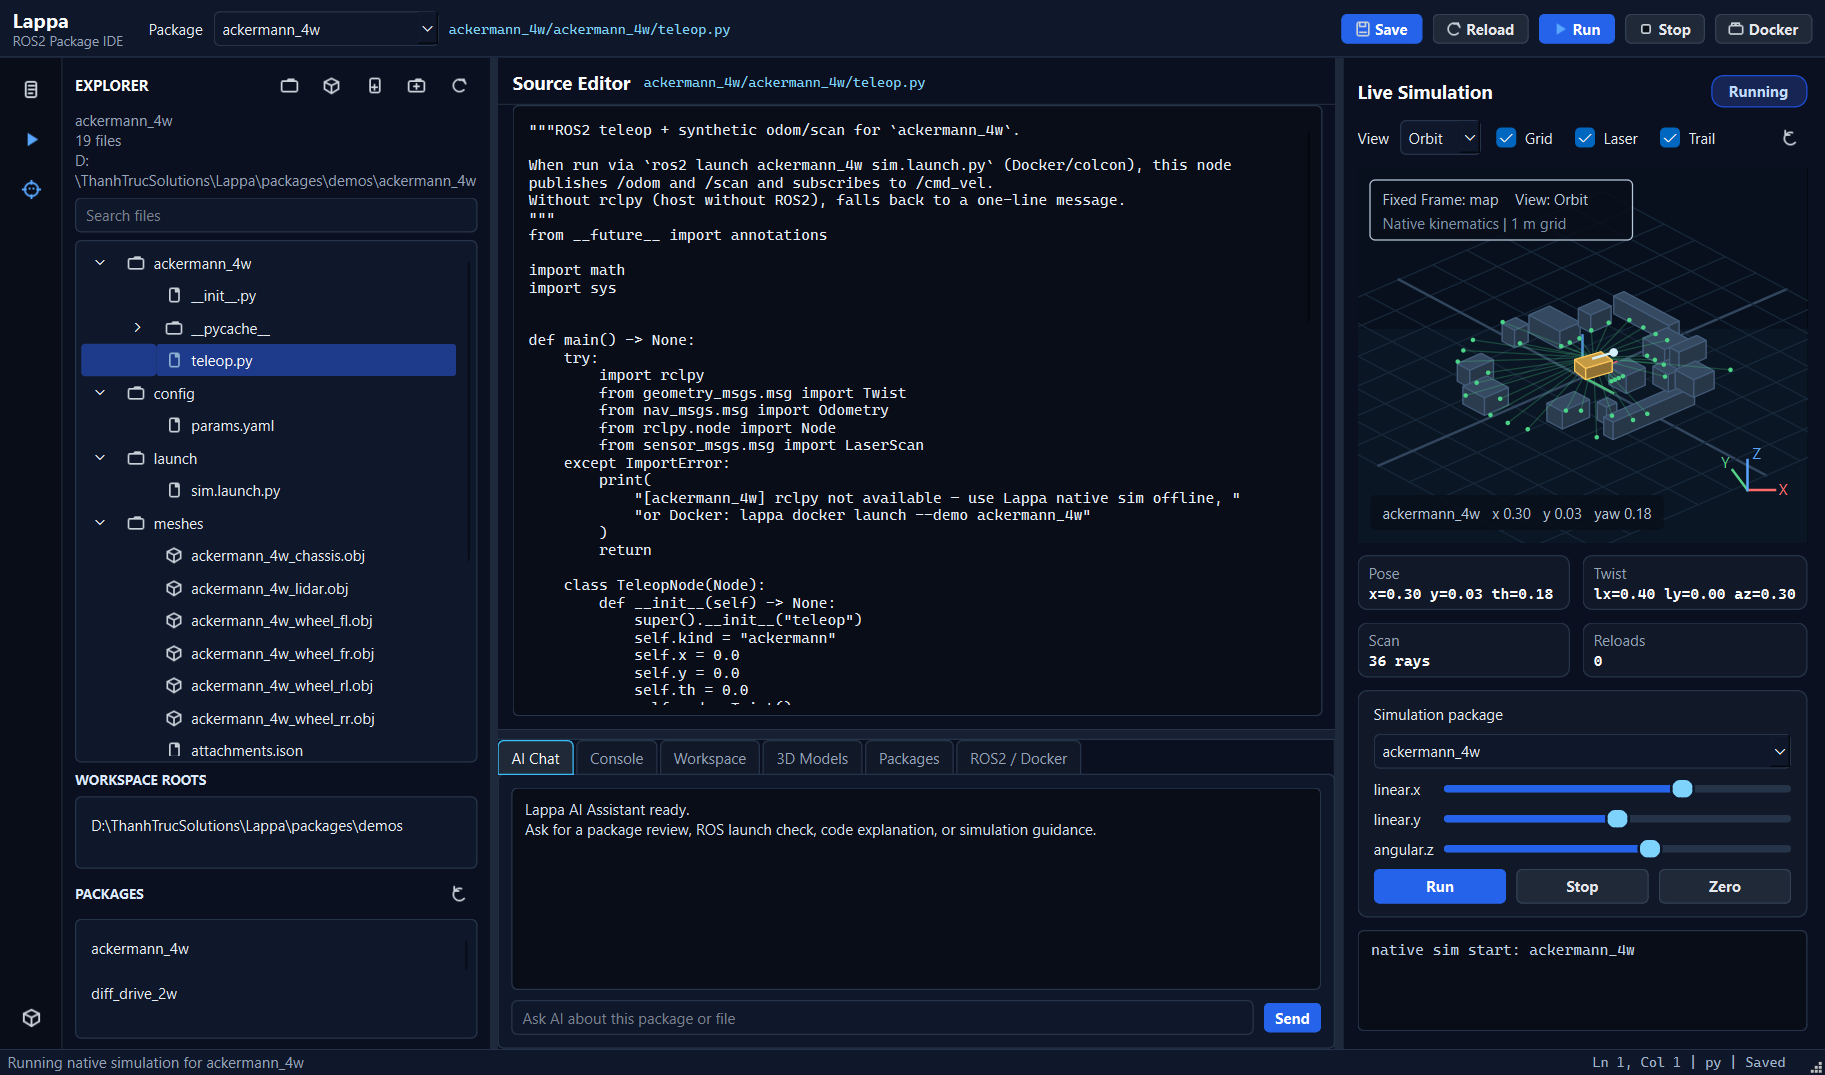
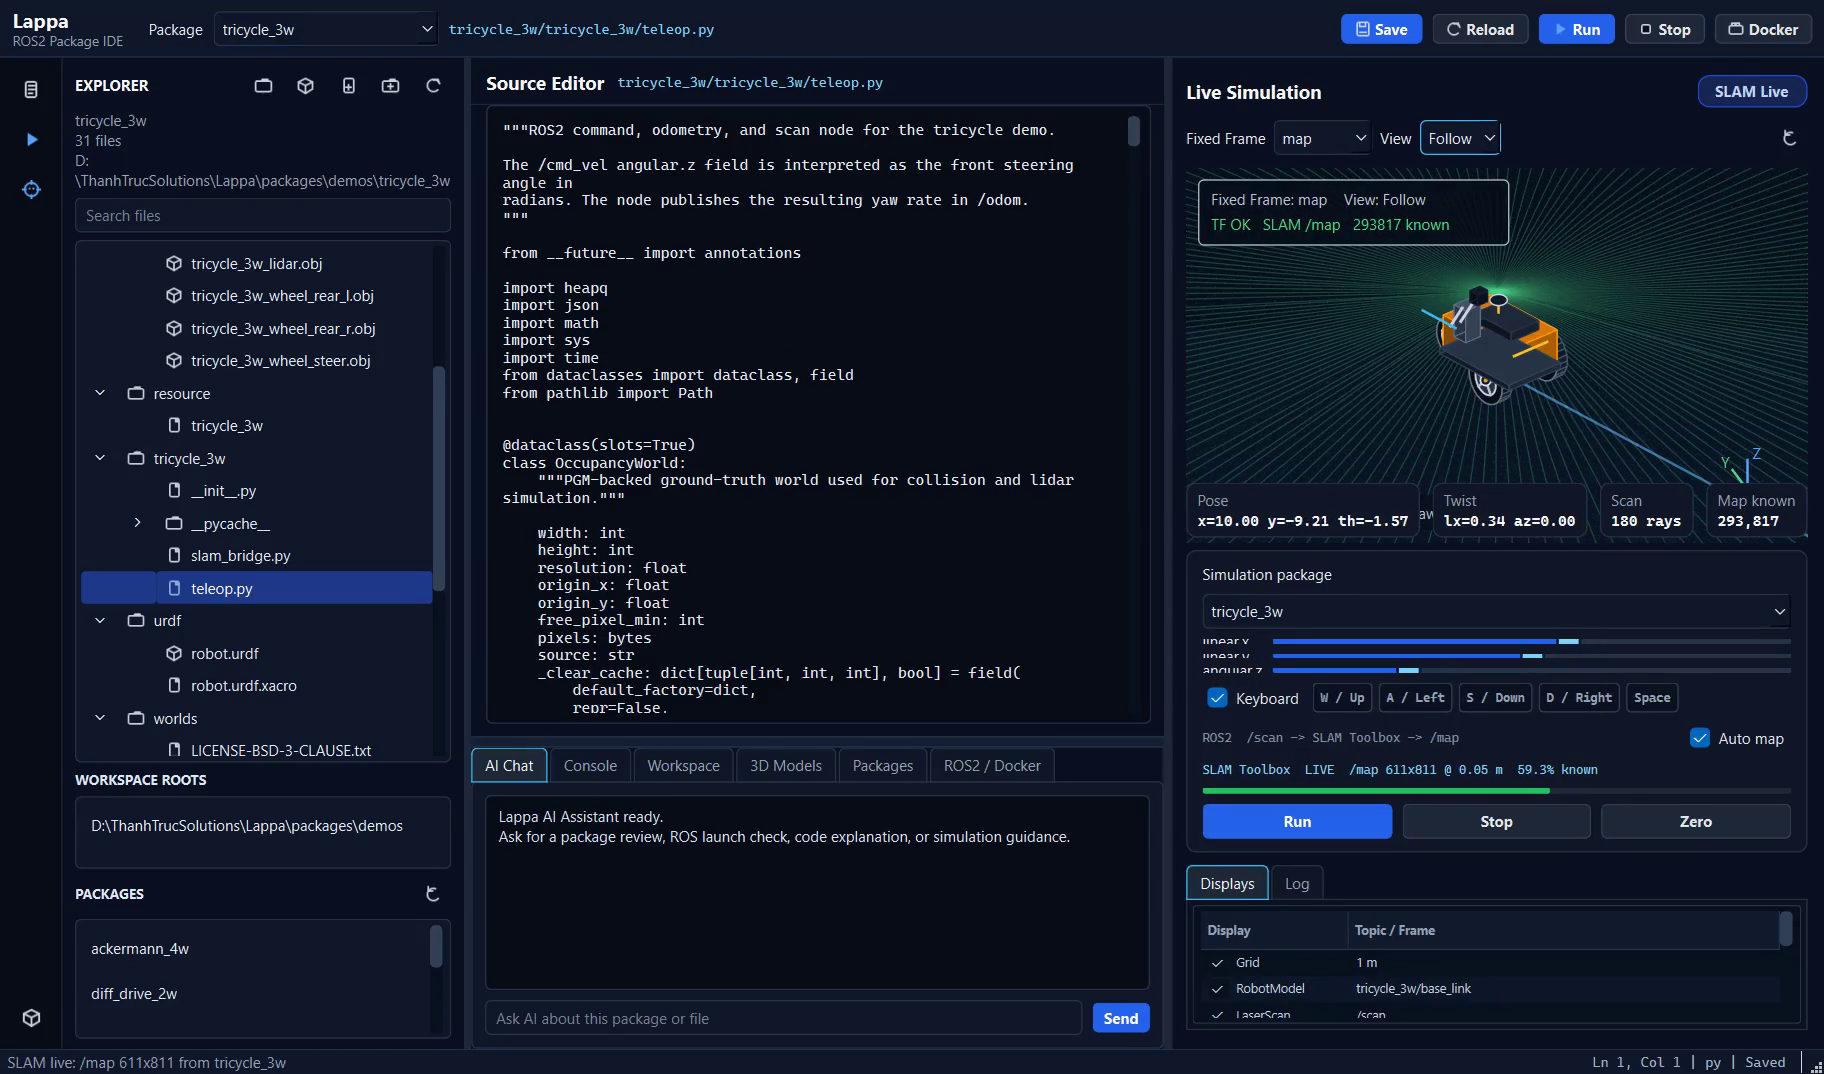
fix: harden ROS2 simulation telemetry

diff --git a/packages/demos/tricycle_3w/tricycle_3w/slam_bridge.py b/packages/demos/tricycle_3w/tricycle_3w/slam_bridge.py
@@ -14,6 +14,27 @@ def _quaternion_yaw(z: float, w: float) -> float:
     return 2.0 * math.atan2(float(z), float(w))
 
 
+def _display_map_cells(
+    values,
+    width: int,
+    target_cells: int = 16_000,
+) -> tuple[list[list[int]], int, int, int]:
+    """Keep occupied cells and sample free space for a responsive viewport."""
+    occupied = sum(1 for value in values if int(value) >= 50)
+    free = sum(1 for value in values if 0 <= int(value) < 50)
+    free_budget = max(1, target_cells - occupied)
+    stride = max(1, math.ceil(math.sqrt(max(1, free) / free_budget)))
+    cells: list[list[int]] = []
+    for index, raw_value in enumerate(values):
+        value = int(raw_value)
+        if value < 0:
+            continue
+        row, column = divmod(index, width)
+        if value >= 50 or (column % stride == 0 and row % stride == 0):
+            cells.append([column, row, value])
+    return cells, occupied, free, stride
+
+
 def main() -> None:
     try:
         import rclpy
@@ -73,19 +94,10 @@ def main() -> None:
         def _on_map(self, message: OccupancyGrid) -> None:
             width = int(message.info.width)
             height = int(message.info.height)
-            cells: list[list[int]] = []
-            occupied = 0
-            free = 0
-            for index, raw_value in enumerate(message.data):
-                value = int(raw_value)
-                if value < 0:
-                    continue
-                row, column = divmod(index, width)
-                cells.append([column, row, value])
-                if value >= 50:
-                    occupied += 1
-                else:
-                    free += 1
+            cells, occupied, free, display_stride = _display_map_cells(
+                message.data,
+                width,
+            )
             known = occupied + free
             total = max(1, width * height)
             orientation = message.info.origin.orientation
@@ -103,6 +115,7 @@ def main() -> None:
                 "occupied_cells": occupied,
                 "free_cells": free,
                 "coverage_percent": known / total * 100.0,
+                "display_stride": display_stride,
                 "cells": cells,
             }
 
@@ -139,12 +152,16 @@ def main() -> None:
                     "scan_frame": self.scan_frame,
                 },
             }
+            serialized = json.dumps(snapshot, separators=(",", ":"))
             temporary = self.snapshot_path.with_suffix(".tmp")
-            temporary.write_text(
-                json.dumps(snapshot, separators=(",", ":")),
-                encoding="utf-8",
-            )
-            os.replace(temporary, self.snapshot_path)
+            temporary.write_text(serialized, encoding="utf-8")
+            try:
+                os.replace(temporary, self.snapshot_path)
+            except OSError:
+                # Docker Desktop bind mounts can reject replacement of a file
+                # that the Windows host recently read. Keep the bridge alive.
+                self.snapshot_path.write_text(serialized, encoding="utf-8")
+                temporary.unlink(missing_ok=True)
 
     rclpy.init(args=sys.argv)
     node = SlamBridgeNode()

diff --git a/packages/server/tests/test_gui_keyboard.py b/packages/server/tests/test_gui_keyboard.py
@@ -11,7 +11,7 @@ os.environ.setdefault("QT_QPA_PLATFORM", "offscreen")
 pytest.importorskip("PySide6")
 
 from PySide6.QtCore import QSettings, Qt  # noqa: E402
-from PySide6.QtWidgets import QApplication  # noqa: E402
+from PySide6.QtWidgets import QApplication, QPushButton, QToolButton  # noqa: E402
 
 from lappa.config import DEMOS_ROOT  # noqa: E402
 from lappa.gui.main_window import MainWindow, SimCanvas  # noqa: E402
@@ -28,6 +28,32 @@ def _docker_unavailable() -> dict:
         "ready_for_launch": False,
         "session": {"mode": "idle", "running": False},
     }
+
+
+def test_workbench_buttons_expose_tooltips_and_accessible_names(
+    tmp_path, monkeypatch
+):
+    app = QApplication.instance() or QApplication([])
+    monkeypatch.setattr("lappa.gui.main_window.docker_bridge.status", _docker_unavailable)
+    settings = QSettings(str(tmp_path / "tooltips.ini"), QSettings.Format.IniFormat)
+    window = MainWindow(show_welcome=False, settings=settings)
+
+    push_buttons = [button for button in window.findChildren(QPushButton) if button.text()]
+    tool_buttons = [
+        button
+        for button in window.findChildren(QToolButton)
+        if not button.objectName().startswith("Scroll")
+    ]
+
+    assert push_buttons
+    assert tool_buttons
+    assert all(button.toolTip().strip() for button in push_buttons)
+    assert all(button.accessibleName().strip() for button in push_buttons)
+    assert all(button.toolTip().strip() for button in tool_buttons)
+    assert all(button.accessibleName().strip() for button in tool_buttons)
+
+    window.close()
+    app.processEvents()
 
 
 def test_keyboard_drives_native_tricycle_and_forwards_twist(tmp_path, monkeypatch):

diff --git a/packages/server/tests/test_tricycle_world.py b/packages/server/tests/test_tricycle_world.py
@@ -13,6 +13,7 @@ from tricycle_3w.teleop import (  # noqa: E402
     OccupancyWorld,
     WAREHOUSE_WAYPOINTS,
 )
+from tricycle_3w.slam_bridge import _display_map_cells  # noqa: E402
 
 
 def test_clearpath_warehouse_world_loads_with_ros_metadata():
@@ -43,3 +44,21 @@ def test_warehouse_assets_preserve_upstream_attribution():
 
     assert "clearpathrobotics/clearpath_nav2_demos" in source
     assert (DEMO_ROOT / "worlds" / "LICENSE-BSD-3-CLAUSE.txt").is_file()
+
+
+def test_slam_bridge_keeps_walls_and_samples_free_cells():
+    values = [0] * 10_000
+    values[123] = 100
+    values[9_999] = -1
+
+    cells, occupied, free, stride = _display_map_cells(
+        values,
+        width=100,
+        target_cells=100,
+    )
+
+    assert occupied == 1
+    assert free == 9_998
+    assert stride > 1
+    assert [23, 1, 100] in cells
+    assert len(cells) <= 110

diff --git a/packages/demos/ackermann_4w/ackermann_4w/snapshot.py b/packages/demos/ackermann_4w/ackermann_4w/snapshot.py
@@ -27,10 +27,11 @@ class SnapshotWriter:
             "updated_at": time.time(),
             "state": state,
         }
+        serialized = json.dumps(payload, separators=(",", ":"))
         temporary = self.path.with_suffix(".tmp")
-        temporary.write_text(
-            json.dumps(payload, separators=(",", ":")),
-            encoding="utf-8",
-        )
-        os.replace(temporary, self.path)
-
+        temporary.write_text(serialized, encoding="utf-8")
+        try:
+            os.replace(temporary, self.path)
+        except OSError:
+            self.path.write_text(serialized, encoding="utf-8")
+            temporary.unlink(missing_ok=True)

diff --git a/packages/demos/diff_drive_2w/diff_drive_2w/snapshot.py b/packages/demos/diff_drive_2w/diff_drive_2w/snapshot.py
@@ -27,10 +27,11 @@ class SnapshotWriter:
             "updated_at": time.time(),
             "state": state,
         }
+        serialized = json.dumps(payload, separators=(",", ":"))
         temporary = self.path.with_suffix(".tmp")
-        temporary.write_text(
-            json.dumps(payload, separators=(",", ":")),
-            encoding="utf-8",
-        )
-        os.replace(temporary, self.path)
-
+        temporary.write_text(serialized, encoding="utf-8")
+        try:
+            os.replace(temporary, self.path)
+        except OSError:
+            self.path.write_text(serialized, encoding="utf-8")
+            temporary.unlink(missing_ok=True)

diff --git a/packages/demos/omni_3w/omni_3w/snapshot.py b/packages/demos/omni_3w/omni_3w/snapshot.py
@@ -27,10 +27,11 @@ class SnapshotWriter:
             "updated_at": time.time(),
             "state": state,
         }
+        serialized = json.dumps(payload, separators=(",", ":"))
         temporary = self.path.with_suffix(".tmp")
-        temporary.write_text(
-            json.dumps(payload, separators=(",", ":")),
-            encoding="utf-8",
-        )
-        os.replace(temporary, self.path)
-
+        temporary.write_text(serialized, encoding="utf-8")
+        try:
+            os.replace(temporary, self.path)
+        except OSError:
+            self.path.write_text(serialized, encoding="utf-8")
+            temporary.unlink(missing_ok=True)

diff --git a/packages/demos/simple_arm/simple_arm/snapshot.py b/packages/demos/simple_arm/simple_arm/snapshot.py
@@ -27,10 +27,11 @@ class SnapshotWriter:
             "updated_at": time.time(),
             "state": state,
         }
+        serialized = json.dumps(payload, separators=(",", ":"))
         temporary = self.path.with_suffix(".tmp")
-        temporary.write_text(
-            json.dumps(payload, separators=(",", ":")),
-            encoding="utf-8",
-        )
-        os.replace(temporary, self.path)
-
+        temporary.write_text(serialized, encoding="utf-8")
+        try:
+            os.replace(temporary, self.path)
+        except OSError:
+            self.path.write_text(serialized, encoding="utf-8")
+            temporary.unlink(missing_ok=True)

diff --git a/packages/server/src/lappa/gui/main_window.py b/packages/server/src/lappa/gui/main_window.py
@@ -914,10 +914,13 @@ class SimCanvas(QWidget):
         painter.setPen(QColor("#4ade80"))
         status = "BLOCKED" if bool(self.state.get("collision")) else "OK"
         source = "SLAM" if self.map_source == "slam_toolbox" else "PREVIEW"
+        known_cells = int(
+            self.map_metadata.get("known_cells") or len(self.mapped_cells)
+        )
         painter.drawText(
             20,
             50,
-            f"TF {status}   {source} /map   {len(self.mapped_cells)} known",
+            f"TF {status}   {source} /map   {known_cells} known",
         )
 
         pose_text = f"{kind}   x {x:.2f}   y {y:.2f}   yaw {theta:.2f}"
@@ -3148,6 +3151,9 @@ class MainWindow(QMainWindow):
                 "ROS2  /scan -> SLAM Toolbox -> /map"
             )
             self.sim_state_pill.setText("SLAM Live")
+            self.statusBar().showMessage(
+                f"SLAM live: /map {width}x{height} from tricycle_3w"
+            )
 
             pose = snapshot.get("pose") or {}
             twist = snapshot.get("twist") or {}
@@ -3241,6 +3247,7 @@ class MainWindow(QMainWindow):
         self.slam_status_label.setText(f"ROS2  LIVE  {topics}")
         self.keyboard_status.setText("ROS2 telemetry connected")
         self.sim_state_pill.setText("ROS2 Live")
+        self.statusBar().showMessage(f"ROS2 live telemetry for {package.name}")
         return True
 
     def _tick_sim(self) -> None:

diff --git a/README.md b/README.md
@@ -5,7 +5,7 @@
 </p>
 
 [![Python 3.11+](https://img.shields.io/badge/python-3.11%2B-blue.svg)](https://www.python.org/downloads/)
-[![Version](https://img.shields.io/badge/version-0.4.30-0E8A16.svg)](packages/server/pyproject.toml)
+[![Version](https://img.shields.io/badge/version-0.4.31-0E8A16.svg)](packages/server/pyproject.toml)
 [![GUI-PySide6](https://img.shields.io/badge/GUI-PySide6-41CD52.svg)](packages/server/src/lappa/gui/)
 [![ROS2](https://img.shields.io/badge/ROS2-Humble%20%7C%20Jazzy%20%7C%20Rolling-22314E.svg)](https://docs.ros.org/)
 [![License: MIT](https://img.shields.io/badge/License-MIT-green.svg)](LICENSE)
@@ -216,7 +216,7 @@ lappa serve --port 8840   # optional local FastAPI automation API
 
 | Command | Description |
 | --- | --- |
-| `lappa version` | Package version (**0.4.30**) |
+| `lappa version` | Package version (**0.4.31**) |
 | `lappa demo` | Offline smoke: engines + 3D robot + bundle + trajectory |
 | `lappa gui` / **`lappa-gui`** | **Qt desktop app** (needs `.[gui]`) |
 | `lappa demos list` | List robot demos |
@@ -427,7 +427,7 @@ Without Docker, **native kinematics sim** still runs offline (`lappa sim start`)
 
 ## Download binaries
 
-Download [Lappa v0.4.30](https://github.com/mergeos-bounties/Lappa/releases/tag/v0.4.30) from GitHub Releases:
+Download [Lappa v0.4.31](https://github.com/mergeos-bounties/Lappa/releases/tag/v0.4.31) from GitHub Releases:
 
 | File | Platform |
 | --- | --- |